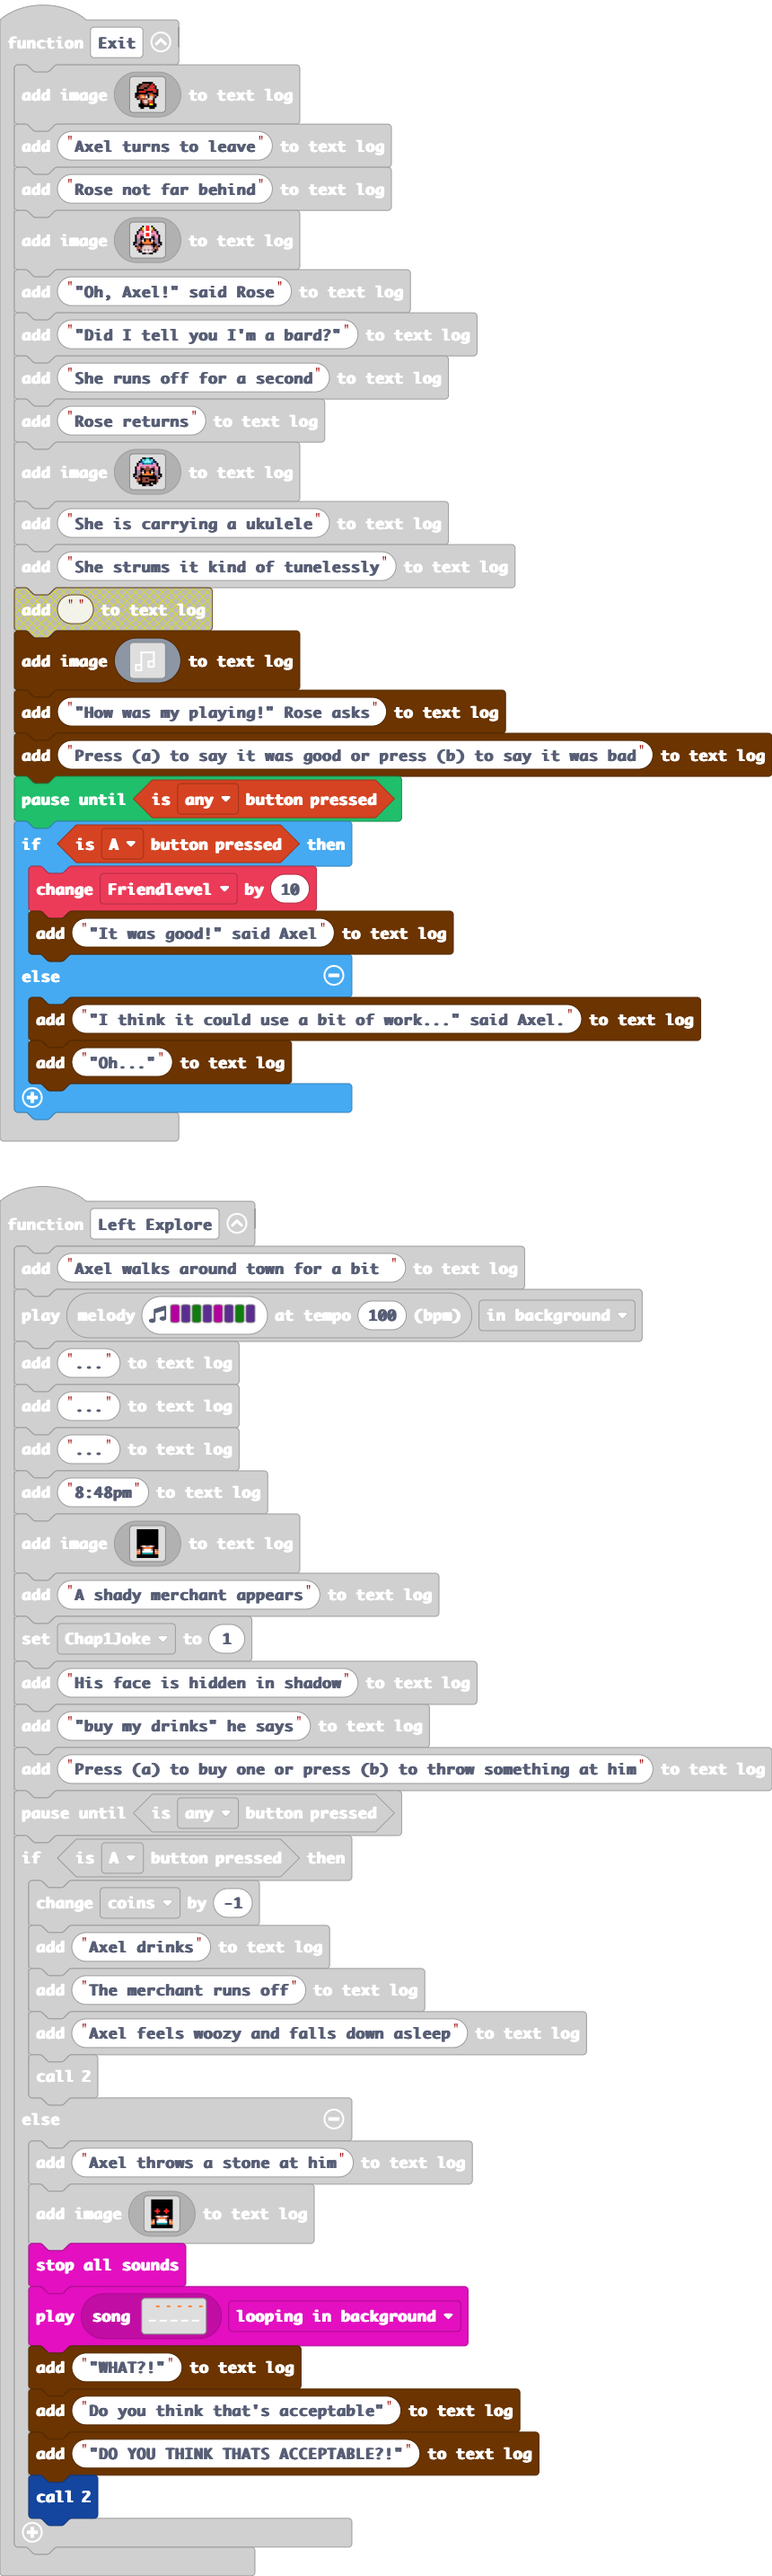
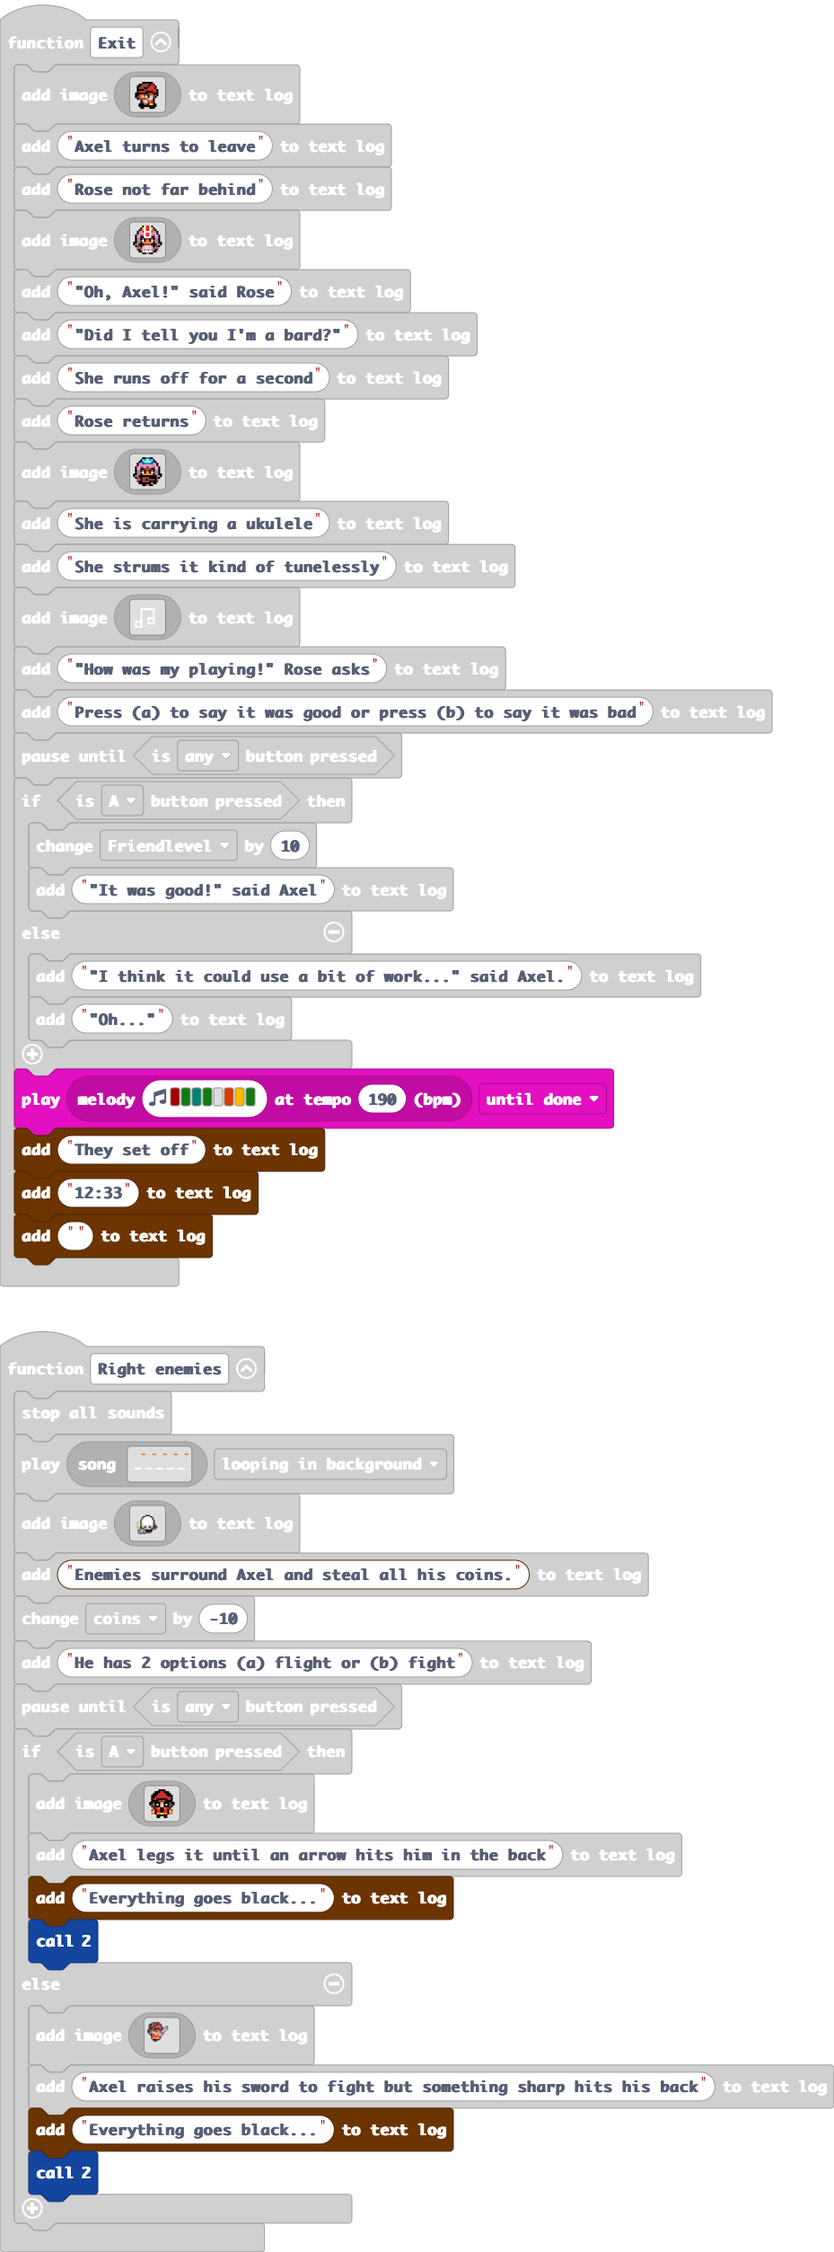
Update main.blocks, main.ts

diff --git a/main.ts b/main.ts
@@ -278,7 +278,7 @@ function Right_enemies () {
         ........................
         ........................
         `)
-    adventure.addToTextlog("Enemies surround Axel and stole all his coins.")
+    adventure.addToTextlog("Enemies surround Axel and steal all his coins.")
     adventure.changeScoreOverride(adventure.Currency.Coins, -10)
     adventure.addToTextlog("He has 2 options (a) flight or (b) fight")
     pauseUntil(() => controller.anyButton.isPressed())
@@ -302,6 +302,7 @@ function Right_enemies () {
             . . . . . f f . . f f . . . . . 
             `)
         adventure.addToTextlog("Axel legs it until an arrow hits him in the back")
+        adventure.addToTextlog("Everything goes black...")
         _2()
     } else {
         adventure.addImageToTextLog(img`
@@ -331,6 +332,7 @@ function Right_enemies () {
             ........................
             `)
         adventure.addToTextlog("Axel raises his sword to fight but something sharp hits his back")
+        adventure.addToTextlog("Everything goes black...")
         _2()
     }
 }
@@ -550,6 +552,10 @@ function Exit () {
         adventure.addToTextlog("\"I think it could use a bit of work...\" said Axel.")
         adventure.addToTextlog("\"Oh...\"")
     }
+    music.play(music.stringPlayable("C5 G F G - B A G ", 190), music.PlaybackMode.UntilDone)
+    adventure.addToTextlog("They set off")
+    adventure.addToTextlog("12:33")
+    adventure.addToTextlog("")
 }
 function Right_Nap () {
     adventure.addToTextlog("Axel decides a nap is a good idea and quickly falls asleep")
